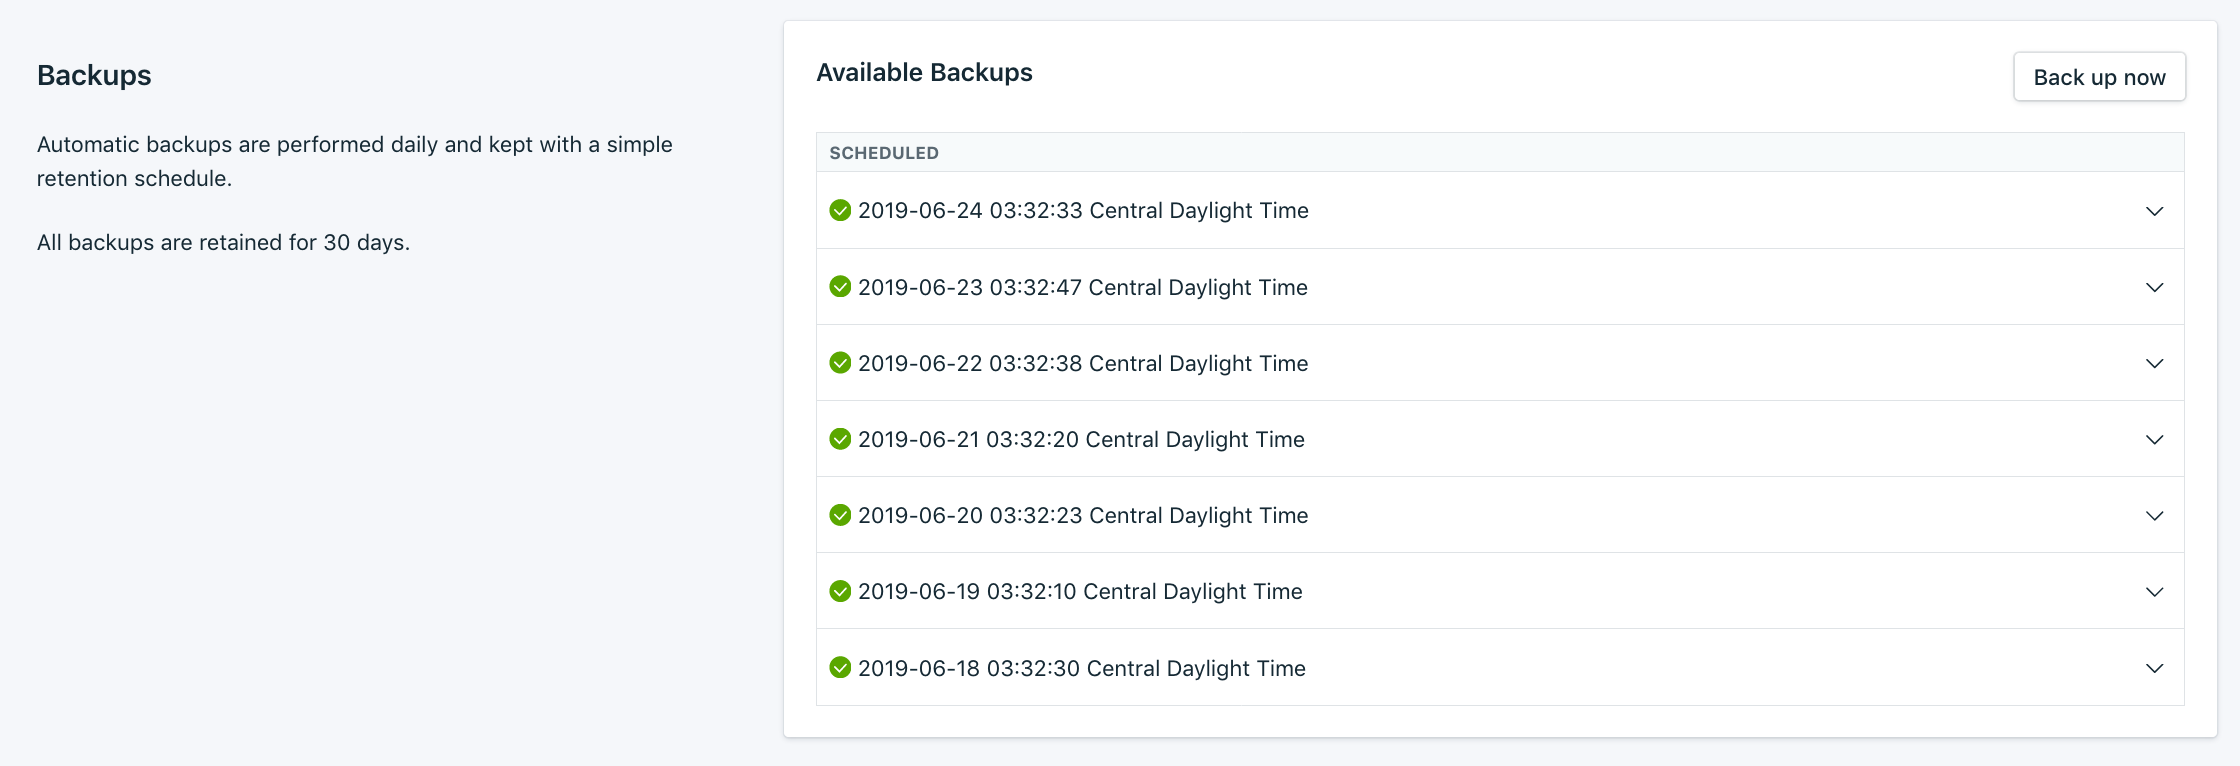
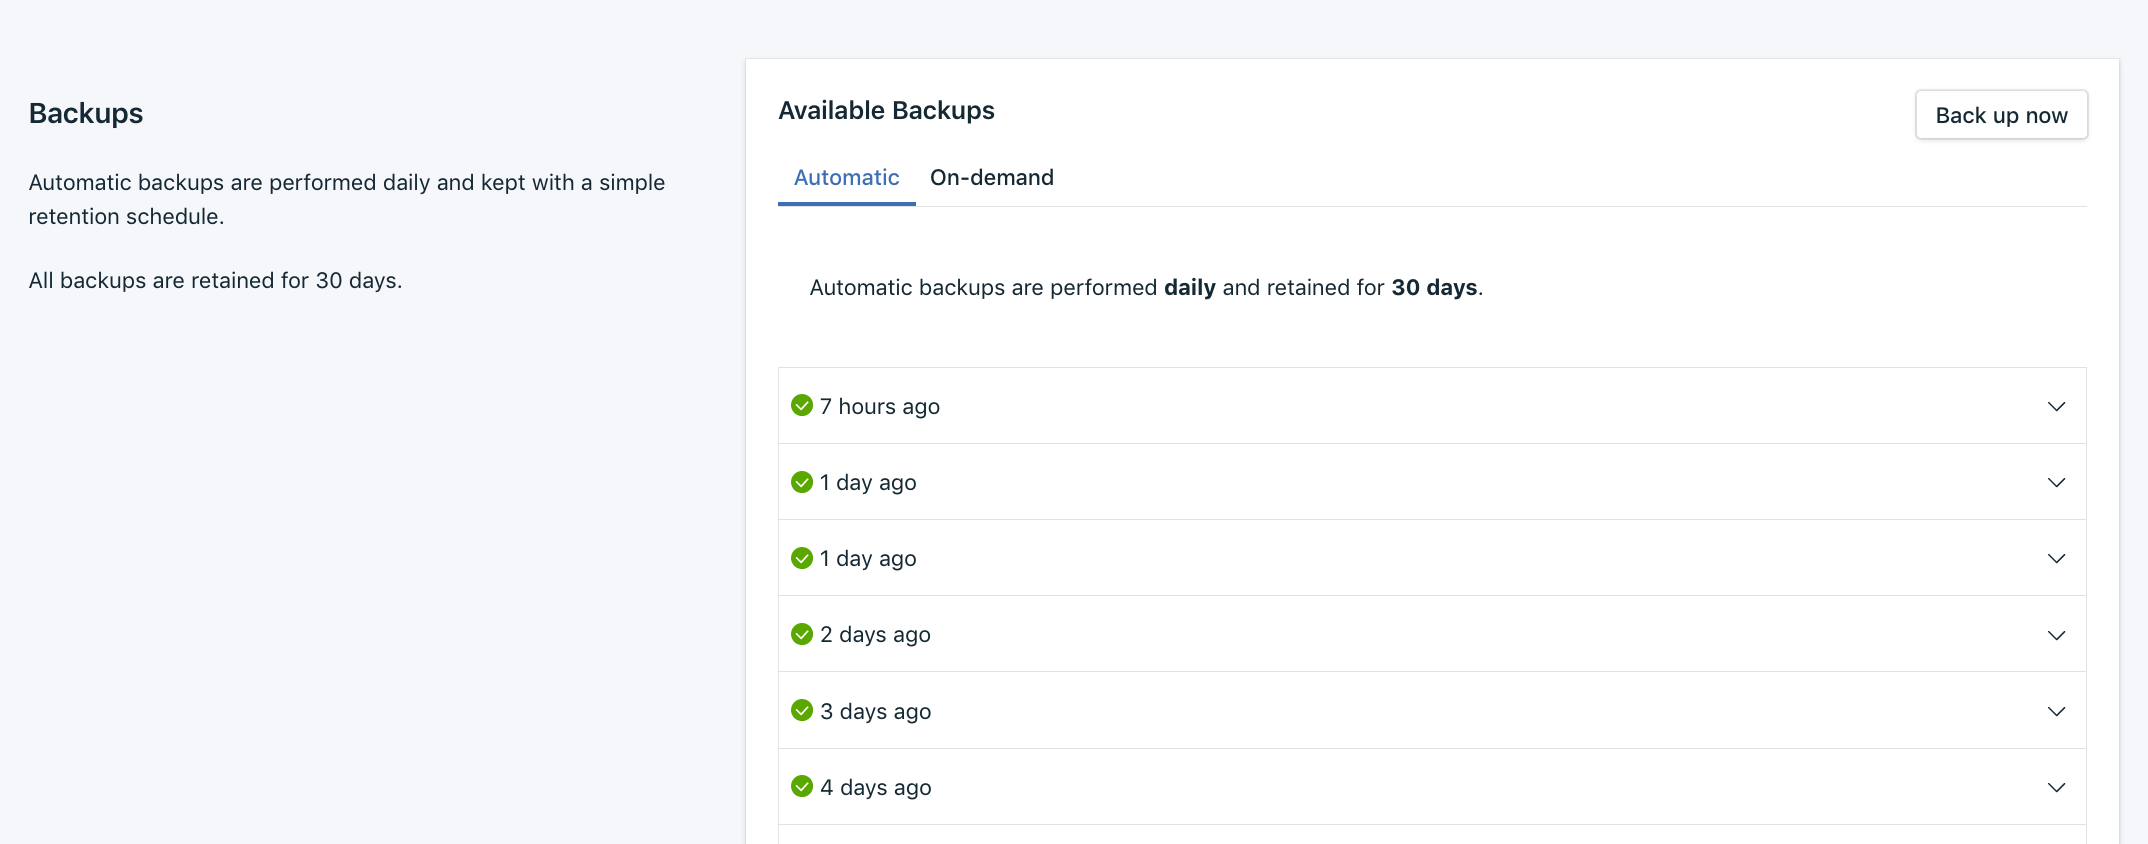
adding postgres pitr blurb, and updating the backups screenshot (#9)

diff --git a/howto-manage-backups.md b/howto-manage-backups.md
@@ -2,9 +2,9 @@
 
 copyright:
   years: 2019
-lastupdated: "2019-06-17"
+lastupdated: "2019-09-17"
 
-subcollection: cloud-databases
+subcollection: cloud-databases, backups
 
 ---
 
@@ -26,13 +26,16 @@ Backups for {{site.data.keyword.databases-for}} deployments are accessible from 
 - Scheduling of the daily backup is not configurable.
 - Backups are cross-regionally durable. Backups are stored across multiple regions, and are restorable to other regions.
 
+{{site.data.keyword.databases-for-postgresql}} deployments maintain a continuous incremental backup for the last 7 days. You can use [Point-in-time Recovery](/docs/services/databases-for-postgresql?topic=databases-for-postgresql-pitr) to restore your deployment to anytime in that 7 day period.
+{: .tip}
+
 ## Backups in the UI
 
-Each backup is labeled with its type, and when the backup was taken. Click the timestamp to change its format between elapsed time, local time, and UTC. 
+The backup types have their respective tabs, either _On-demand_ or _Automatic_. Each backup is listed with its type and when the backup was taken. Click the timestamp to change its format between elapsed time, local time, and UTC. 
 
 ![List of Backups on the Backups tab](images/backups-list.png)
 
-Click the backup to reveal information for that specific backup, including its full ID. For restore options, there is a  **Restore** button or a pre-formatted CLI command. 
+Click the backup to reveal information for that specific backup, including its full ID. For restore options, there is a **Restore** button or a pre-formatted CLI command. 
 
 ![Details of a Backup](images/backups-detail.png)
 
@@ -48,7 +51,7 @@ For example, to view the backups for a deployment named "example-deployment", us
 ibmcloud cdb deployment-backups-list example-deployment
 ```
 
-To see the details of one of the backups from the list, take the ID from the `ID` field of the `deployment-backups-list` command's response and use it with the `backup-show` command.
+To see the details of one of the backups from the list, take the ID from the `ID` field of the `deployment-backups-list` response and use it with the `backup-show` command.
 
 ```
 ibmcloud cdb backup-show crn:v1:staging:public:databases-for-postgresql:us-south:a/6284014dd5b487c87a716f48aeeaf99f:3b4537bf-a585-4594-8262-2b1e24e2701e:backup:a3364821-d061-413f-a0df-6ba0e2951566
